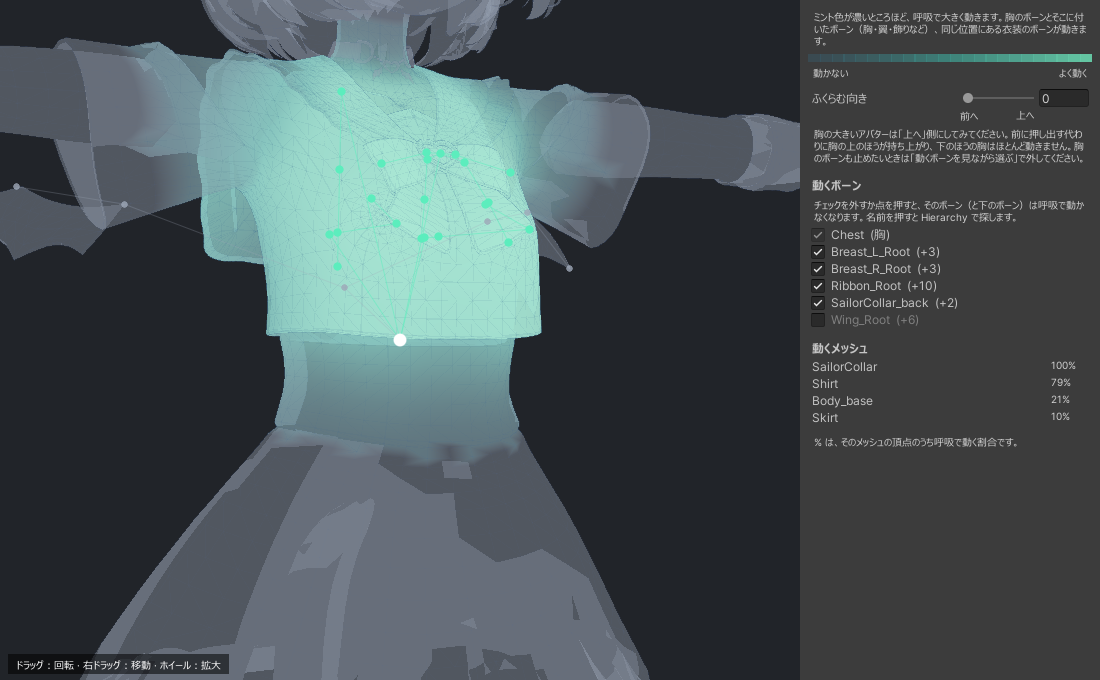
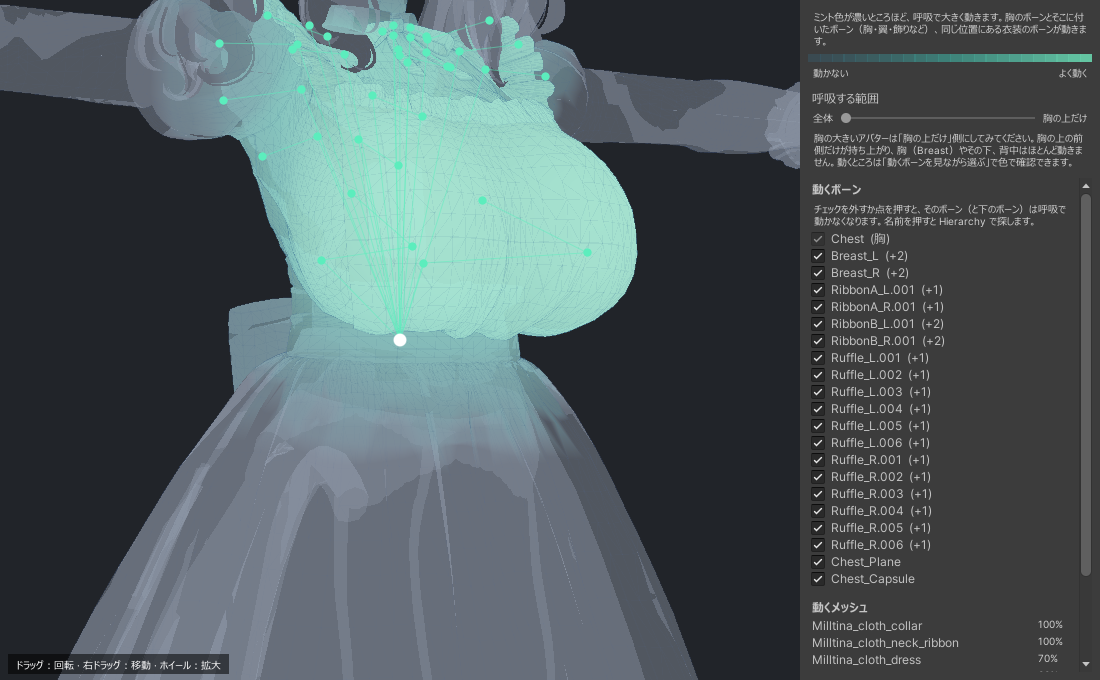
Easy Ikiiki manual: breathing area (whole chest / upper chest only)

diff --git a/easy-ikiiki/manual/index.html b/easy-ikiiki/manual/index.html
@@ -332,7 +332,7 @@
   <p>胸の前・上・横がふわっとふくらみ、背中側は動きません。Modular Avatar で着せた衣装も胸に合わせて動きます。Humanoid ボーンは回さないので、ゲーム内の IK でも腕や足がずれません。</p>
   <ul>
     <li><span class="ui">強さ (%)</span>：呼吸の深さ（最大 200%。150% を超えると服が破れたように見えることがあるので、警告が出ます）。右のグラフで 1 回の呼吸の形（吸う・吐く）を変えられ、<span class="ui">↺</span> で元に戻ります。</li>
-    <li><span class="ui">ふくらむ向き</span>：「前へ」〜「上へ」。胸の大きいアバターは「上へ」にすると、胸の上の前側だけが持ち上がり、胸（Breast）やその下、背中はほとんど動きません（ビルド時に胸のウェイトを場所で分けます。元のメッシュは変更しません）。動くところは下の <span class="ui">動くボーンを見ながら選ぶ</span> で色で確認できます。</li>
+    <li><span class="ui">呼吸する範囲</span>：「全体」〜「胸の上だけ」。胸の大きいアバターは「胸の上だけ」にすると、胸の上の前側だけが持ち上がり、胸（Breast）やその下、背中はほとんど動きません（ビルド時に胸のウェイトを場所で分けます。元のメッシュは変更しません）。動くところは下の <span class="ui">動くボーンを見ながら選ぶ</span> で色で確認できます。</li>
     <li><span class="ui">1回の呼吸の長さ (秒)</span> と <span class="ui">速さのゆらぎ (%)</span>：呼吸の速さと、そのばらつき。</li>
     <li><span class="ui">標準の待機モーションを止める</span>（標準でオン）：Additive レイヤーを設定していないアバターは、ゲーム内で VRChat 標準の待機モーションで腕や胸が揺れます（Gesture Manager では見えません）。オンにすると、この揺れを止めて呼吸だけを残します。</li>
   </ul>
@@ -416,7 +416,7 @@
   <details><summary>耳・しっぽ・翼が見つからない</summary><p>パーツの設定で <span class="ui">ボーンを見ながら選ぶ</span> を開き、根元のボーンをクリックして <span class="ui">適用</span> してください。それでも動かない場合は、下の診断ツールで情報を送ってください。</p></details>
   <details><summary>視線が逆の方向に動く・違う表情になる</summary><p>「目」の <span class="ui">シェイプを見ながら選ぶ</span> で、上・下・左・右に正しいシェイプを選び直してください。左右はアバターから見た向きです。</p></details>
   <details><summary>まばたきが二重になる</summary><p>アバター独自のまばたきと重なっています。「自然なまばたき」の下の選択で <span class="ui">イージーいきいきだけ</span> か <span class="ui">アバターのものだけ</span> を選んでください。</p></details>
-  <details><summary>胸の大きいアバターで胸が動きすぎる</summary><p>「からだ」の <span class="ui">ふくらむ向き</span> を「上へ」にしてください。胸の上の前側だけが呼吸し、胸はほとんど動かなくなります。</p></details>
+  <details><summary>胸の大きいアバターで胸が動きすぎる</summary><p>「からだ」の <span class="ui">呼吸する範囲</span> を「胸の上だけ」にしてください。胸の上の前側だけが呼吸し、胸はほとんど動かなくなります。</p></details>
   <details><summary>フェイストラッキングを使っている</summary><p>トラッキング中はゲーム内メニューで「目」と「表情」をオフにしてください。いつも使うなら、そのパーツを外しても大丈夫です。VRChat 標準のアイトラッキングでまぶたを動かしている場合は、「自然なまばたき」の <span class="ui">使う</span> をオフにしてください。</p></details>
   <details><summary>Unity では見えるのにゲームで動きが違う</summary><p>Gesture Manager でも確認できますが、VRChat 標準の待機モーションはゲーム内でしか再生されません。<span class="ui">標準の待機モーションを止める</span> をオンにしてください。</p></details>
   <details><summary>外したい</summary><p>アバターの中の Easy_Ikiiki_Asset を削除するだけです。アバターの元のファイルは変わっていません。</p></details>
@@ -434,7 +434,7 @@
   </ol>
   <p>送信は、同梱の <a href="https://eukkbi.booth.pm/items/9093824">Eukkbi_Soft アバター診断ツール</a>（<code>Assets/Eukkbi_Soft/Avatar_Diagnostics</code>）が行います。イージーいきいき自体には通信機能がありません。このフォルダを消してしまった場合は、BOOTH から無料で入れ直せます。</p>
   <p>送信したくない場合は <span class="ui">コピーのみ</span> で内容をコピーし、メッセージに貼り付けて送ってください。</p>
-  <h3>更新履歴</h3><ul><li>v1.2.0（2026/11/15）ふくらむ向き（からだ）：「前へ」〜「上へ」を選べるように。胸の大きいアバターは「上へ」にすると、胸の上のほうだけが呼吸します・呼吸の強さを最大200%まで（150%を超えると警告）</li><li>v1.1.0（2026/11/15）動くボーンを見ながら選ぶ（からだ）：呼吸で動くボーンとメッシュを色で表示し、胸に付いたボーン（翼・飾りなど）ごとに一緒に動かすかを選べるように・インスペクターから診断情報を送信（診断ツールを同梱）</li><li>v1.0.1（2026/11/15）シェイプを見ながら選ぶ：選んだシェイプが先頭に移動しないように修正</li><li>v1.0.0（2026/11/15）公開</li></ul>
+  <h3>更新履歴</h3><ul><li>v1.2.0（2026/11/15）呼吸する範囲（からだ）：「全体」〜「胸の上だけ」を選べるように。胸の大きいアバターは「胸の上だけ」にすると、胸の上のほうだけが呼吸します・呼吸の強さを最大200%まで（150%を超えると警告）</li><li>v1.1.0（2026/11/15）動くボーンを見ながら選ぶ（からだ）：呼吸で動くボーンとメッシュを色で表示し、胸に付いたボーン（翼・飾りなど）ごとに一緒に動かすかを選べるように・インスペクターから診断情報を送信（診断ツールを同梱）</li><li>v1.0.1（2026/11/15）シェイプを見ながら選ぶ：選んだシェイプが先頭に移動しないように修正</li><li>v1.0.0（2026/11/15）公開</li></ul>
   <h3>お問い合わせ</h3>
   <div class="contact"><span>BOOTH のメッセージ / Discord</span><span class="id">eukkbi_soft</span><button type="button" class="copy" data-copy="eukkbi_soft" data-done="コピーしました">コピー</button></div>
 </section>
@@ -475,7 +475,7 @@
   <p>가슴의 앞·위·옆이 부드럽게 부풀고 등 쪽은 움직이지 않아요. Modular Avatar로 입힌 의상도 가슴에 맞춰 움직여요. Humanoid 본을 돌리지 않아서 게임 속 IK에서도 팔다리가 어긋나지 않아요.</p>
   <ul>
     <li><span class="ui">강도 (%)</span>: 숨의 깊이 (최대 200%. 150%를 넘으면 옷이 찢어져 보일 수 있어서 경고가 나와요). 오른쪽 그래프로 숨 한 번의 모양(들숨·날숨)을 바꿀 수 있고, <span class="ui">↺</span>로 되돌려요.</li>
-    <li><span class="ui">부푸는 방향</span>: "앞으로"~"위로". 가슴이 큰 아바타는 "위로"로 두면 윗가슴 앞쪽만 들썩이고, 가슴(Breast)과 그 아래, 등은 거의 움직이지 않아요 (빌드할 때 가슴 웨이트를 위치에 따라 나눠요. 원본 메쉬는 바꾸지 않아요). 움직이는 곳은 아래 <span class="ui">움직이는 본 보면서 고르기</span>에서 색으로 확인할 수 있어요.</li>
+    <li><span class="ui">숨쉬는 범위</span>: "전체적으로"~"윗가슴만". 가슴이 큰 아바타는 "윗가슴만"으로 두면 윗가슴 앞쪽만 들썩이고, 가슴(Breast)과 그 아래, 등은 거의 움직이지 않아요 (빌드할 때 가슴 웨이트를 위치에 따라 나눠요. 원본 메쉬는 바꾸지 않아요). 움직이는 곳은 아래 <span class="ui">움직이는 본 보면서 고르기</span>에서 색으로 확인할 수 있어요.</li>
     <li><span class="ui">한 번 숨쉬는 시간 (초)</span>와 <span class="ui">속도 흔들림 (%)</span>: 숨 쉬는 속도와 그 흔들림.</li>
     <li><span class="ui">기본 대기 움직임 끄기</span> (기본 켜짐): Additive 레이어를 따로 설정하지 않은 아바타는 게임 안에서 VRChat 기본 대기 애니메이션 때문에 팔과 가슴이 흔들려요 (Gesture Manager에서는 안 보여요). 켜 두면 이 흔들림을 없애고 숨쉬기만 남겨요.</li>
   </ul>
@@ -559,7 +559,7 @@
   <details><summary>귀·꼬리·날개를 못 찾아요</summary><p>부위 설정에서 <span class="ui">본 보면서 고르기</span>를 열고 뿌리 본을 클릭한 뒤 <span class="ui">적용</span>해 주세요. 그래도 안 움직이면 아래 진단 도구로 정보를 보내 주세요.</p></details>
   <details><summary>시선이 반대로 가거나 다른 표정이 돼요</summary><p>"눈"의 <span class="ui">셰이프 보면서 고르기</span>에서 위·아래·왼쪽·오른쪽에 맞는 셰이프를 다시 골라 주세요. 왼쪽·오른쪽은 아바타 기준이에요.</p></details>
   <details><summary>두 번 깜빡여요</summary><p>아바타 자체 깜빡임과 겹친 거예요. "자연 깜빡임" 아래 선택에서 <span class="ui">이지 이키이키만</span>이나 <span class="ui">아바타 것만</span>을 골라 주세요.</p></details>
-  <details><summary>가슴이 큰 아바타에서 가슴이 너무 움직여요</summary><p>"몸"의 <span class="ui">부푸는 방향</span>을 "위로"로 옮겨 주세요. 윗가슴 앞쪽만 숨쉬고, 가슴은 거의 움직이지 않게 돼요.</p></details>
+  <details><summary>가슴이 큰 아바타에서 가슴이 너무 움직여요</summary><p>"몸"의 <span class="ui">숨쉬는 범위</span>을 "윗가슴만"으로 옮겨 주세요. 윗가슴 앞쪽만 숨쉬고, 가슴은 거의 움직이지 않게 돼요.</p></details>
   <details><summary>페이스 트래킹을 써요</summary><p>트래킹 중에는 게임 안 메뉴에서 "눈"과 "표정"을 꺼 주세요. 늘 쓴다면 그 부위를 빼도 돼요. VRChat 기본 아이 트래킹으로 눈꺼풀을 움직이는 경우에는 "자연 깜빡임"의 <span class="ui">사용</span>을 꺼 주세요.</p></details>
   <details><summary>Unity에서는 괜찮은데 게임에서 움직임이 달라요</summary><p>VRChat 기본 대기 애니메이션은 게임 안에서만 재생돼요. <span class="ui">기본 대기 움직임 끄기</span>를 켜 주세요.</p></details>
   <details><summary>빼고 싶어요</summary><p>아바타 안의 Easy_Ikiiki_Asset을 지우기만 하면 돼요. 아바타 원본 파일은 바뀌지 않았어요.</p></details>
@@ -577,7 +577,7 @@
   </ol>
   <p>보내기는 함께 들어 있는 <a href="https://eukkbi.booth.pm/items/9093824">Eukkbi_Soft 아바타 진단 도구</a>(<code>Assets/Eukkbi_Soft/Avatar_Diagnostics</code>)가 맡아요. 이지 이키이키 자체에는 통신 기능이 없어요. 이 폴더를 지웠다면 BOOTH에서 무료로 다시 받을 수 있어요.</p>
   <p>보내기 싫으면 <span class="ui">복사만 하기</span>로 내용을 복사해서 메시지에 붙여 넣어 주세요.</p>
-  <h3>업데이트 이력</h3><ul><li>v1.2.0 (2026/11/15) 부푸는 방향 (몸): "앞으로"~"위로"를 고를 수 있게. 가슴이 큰 아바타는 "위로"로 두면 윗가슴만 숨쉬어요 · 숨쉬기 강도 최대 200% (150% 넘으면 경고)</li><li>v1.1.0 (2026/11/15) 움직이는 본 보면서 고르기 (몸): 숨쉴 때 움직이는 본과 메쉬를 색으로 보여 주고, 가슴에 붙은 본(날개·장식 등)마다 같이 움직일지 고를 수 있게 · 인스펙터에서 진단 정보 보내기 (진단 도구 포함)</li><li>v1.0.1 (2026/11/15) 셰이프 보면서 고르기: 고른 셰이프가 맨 앞으로 이동하지 않도록 수정</li><li>v1.0.0 (2026/11/15) 공개</li></ul>
+  <h3>업데이트 이력</h3><ul><li>v1.2.0 (2026/11/15) 숨쉬는 범위 (몸): "전체적으로"~"윗가슴만"을 고를 수 있게. 가슴이 큰 아바타는 "윗가슴만"으로 두면 윗가슴만 숨쉬어요 · 숨쉬기 강도 최대 200% (150% 넘으면 경고)</li><li>v1.1.0 (2026/11/15) 움직이는 본 보면서 고르기 (몸): 숨쉴 때 움직이는 본과 메쉬를 색으로 보여 주고, 가슴에 붙은 본(날개·장식 등)마다 같이 움직일지 고를 수 있게 · 인스펙터에서 진단 정보 보내기 (진단 도구 포함)</li><li>v1.0.1 (2026/11/15) 셰이프 보면서 고르기: 고른 셰이프가 맨 앞으로 이동하지 않도록 수정</li><li>v1.0.0 (2026/11/15) 공개</li></ul>
   <h3>문의</h3>
   <div class="contact"><span>BOOTH 메시지 / Discord</span><span class="id">eukkbi_soft</span><button type="button" class="copy" data-copy="eukkbi_soft" data-done="복사했어요">복사</button></div>
 </section>
@@ -618,7 +618,7 @@
   <p>The front, top and sides of the chest rise softly while the back stays still, and outfits added with Modular Avatar move along. No humanoid bone is turned, so in-game IK never pulls the arms or legs out of place.</p>
   <ul>
     <li><span class="ui">Strength (%)</span>: how deep each breath is (up to 200%; past 150% the outfit can look torn, and a warning shows). The graph beside it shapes one breath (in and out); <span class="ui">↺</span> resets it.</li>
-    <li><span class="ui">Swell direction</span>: Forward to Up. On a large bust, Up lifts only the upper front of the chest, while the bust, the ribs below it and the back hardly move (the build splits the chest's weights by place; your mesh files are not changed). <span class="ui">Pick moving bones by eye</span> below shows in colour what moves.</li>
+    <li><span class="ui">Breathing area</span>: Whole chest to Upper chest only. On a large bust, "Upper chest only" lifts just the upper front of the chest, while the bust, the ribs below it and the back hardly move (the build splits the chest's weights by place; your mesh files are not changed). <span class="ui">Pick moving bones by eye</span> below shows in colour what moves.</li>
     <li><span class="ui">Seconds per breath</span> and <span class="ui">Pace variation (%)</span>: the pace and how much it wanders.</li>
     <li><span class="ui">Turn off the default idle sway</span> (on by default): avatars without their own Additive layer get VRChat's default idle in game, which sways the arms and chest (Gesture Manager doesn't show it). This stops it so only the breathing remains.</li>
   </ul>
@@ -702,7 +702,7 @@
   <details><summary>The ears, tail or wings aren't found</summary><p>Open <span class="ui">Pick by eye</span> in that part's settings, click the root bone and press <span class="ui">Apply</span>. If it still doesn't move, send us details with the diagnostics tool below.</p></details>
   <details><summary>The gaze goes the wrong way or makes another face</summary><p>Pick the right up, down, left and right shapes again with <span class="ui">Pick shapes by eye</span> under Eyes. Left and right are the avatar's.</p></details>
   <details><summary>It blinks twice</summary><p>The avatar's own blink overlaps. Choose <span class="ui">Easy Ikiiki only</span> or <span class="ui">The avatar's only</span> under Natural blink.</p></details>
-  <details><summary>On a large bust, the breasts move too much</summary><p>Slide <span class="ui">Swell direction</span> under Body toward Up: only the upper front of the chest breathes then, and the bust hardly moves.</p></details>
+  <details><summary>On a large bust, the breasts move too much</summary><p>Slide <span class="ui">Breathing area</span> under Body to "Upper chest only": just the upper front of the chest breathes then, and the bust hardly moves.</p></details>
   <details><summary>I use face tracking</summary><p>Turn "Eyes" and "Face" off in the in-game menu while tracking, or leave those parts out if you always track. If VRChat's own eye tracking moves your eyelids, untick <span class="ui">Enable</span> on Natural blink.</p></details>
   <details><summary>It looks fine in Unity but moves differently in game</summary><p>VRChat's default idle plays only in game. Turn on <span class="ui">Turn off the default idle sway</span>.</p></details>
   <details><summary>How do I remove it?</summary><p>Delete Easy_Ikiiki_Asset from your avatar. Your avatar's own files were never changed.</p></details>
@@ -720,7 +720,7 @@
   </ol>
   <p>The sending is done by the bundled <a href="https://eukkbi.booth.pm/items/9093824">Eukkbi_Soft Avatar Diagnostics</a> tool (<code>Assets/Eukkbi_Soft/Avatar_Diagnostics</code>); Easy Ikiiki itself has no network code. Deleted that folder? Get it again for free on BOOTH.</p>
   <p>Rather not send it? Use <span class="ui">Copy only</span> and paste the text in your message.</p>
-  <h3>Update history</h3><ul><li>v1.2.0 (2026/11/15) Swell direction (Body): choose Forward to Up; on a large bust, Up makes only the upper chest breathe; breathing strength up to 200% (warning past 150%)</li><li>v1.1.0 (2026/11/15) Pick moving bones by eye (Body): see the bones and meshes breathing moves, and choose which bones on the chest (wings, accessories) ride along; send diagnostics from the inspector (diagnostics tool bundled)</li><li>v1.0.1 (2026/11/15) Pick shapes by eye: a picked shape no longer jumps to the top</li><li>v1.0.0 (2026/11/15) Released</li></ul>
+  <h3>Update history</h3><ul><li>v1.2.0 (2026/11/15) Breathing area (Body): choose Whole chest to Upper chest only; on a large bust, "Upper chest only" lets just the upper chest breathe; breathing strength up to 200% (warning past 150%)</li><li>v1.1.0 (2026/11/15) Pick moving bones by eye (Body): see the bones and meshes breathing moves, and choose which bones on the chest (wings, accessories) ride along; send diagnostics from the inspector (diagnostics tool bundled)</li><li>v1.0.1 (2026/11/15) Pick shapes by eye: a picked shape no longer jumps to the top</li><li>v1.0.0 (2026/11/15) Released</li></ul>
   <h3>Contact</h3>
   <div class="contact"><span>BOOTH message / Discord</span><span class="id">eukkbi_soft</span><button type="button" class="copy" data-copy="eukkbi_soft" data-done="Copied">Copy</button></div>
 </section>
